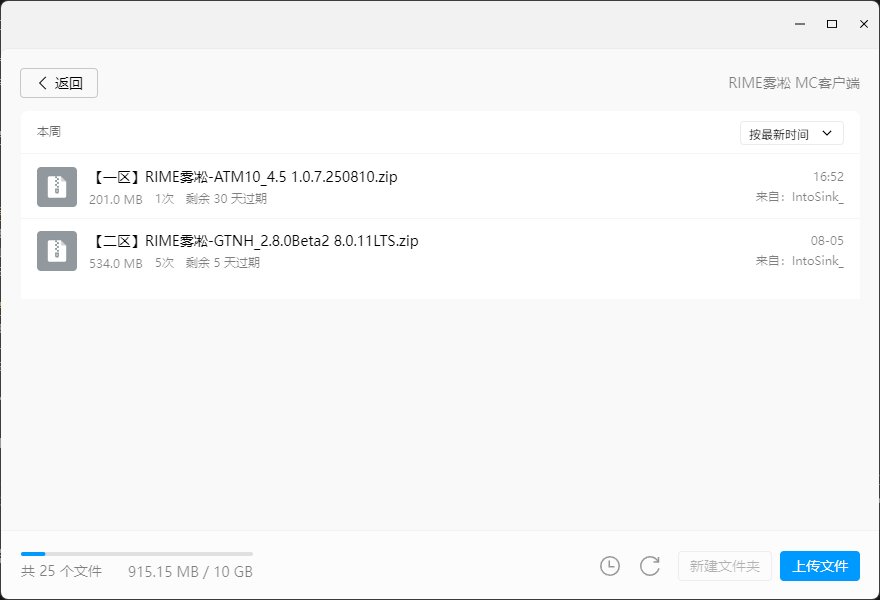
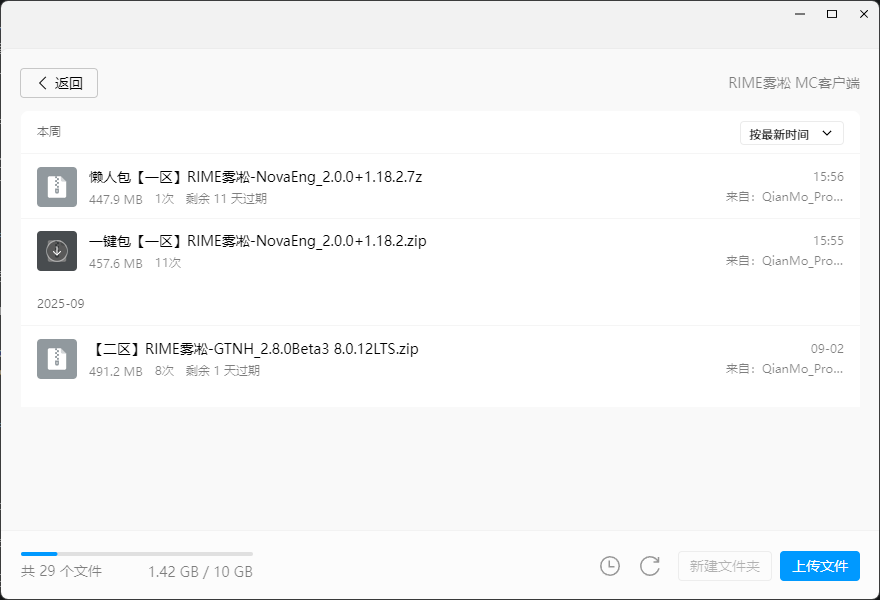
同步新周目新星工程  - 将所有的ATM10关键字替换为新星周目  - 修改安装客户端教程  - 修复英雄界面“快速开始”按钮伪元素没有覆盖全导致按钮两边出现空隙

diff --git a/docs/.vitepress/theme/components/CustomHero.vue b/docs/.vitepress/theme/components/CustomHero.vue
@@ -75,7 +75,7 @@ interface Props {
 const props = withDefaults(defineProps<Props>(), {
   heroData: () => ({
     name: "RIME · 雾凇",
-    text: "ATM10 & GTNH 双区服科技服务器",
+    text: "新星周目 & GTNH 双区服科技服务器",
     tagline: "致力于寻找玩法与稳定的Minecraft服务器",
     image: {
       src: "https://img.cdn1.vip/i/68986baa3322c_1754819498.webp",
@@ -433,6 +433,9 @@ const props = withDefaults(defineProps<Props>(), {
   );
   color: white;
   box-shadow: 0 10px 25px rgba(102, 126, 234, 0.3);
+  position: relative;
+  overflow: hidden;
+  border: none;
 }
 
 .button-brand::before {

diff --git a/docs/.vitepress/theme/components/FeatureCards.vue b/docs/.vitepress/theme/components/FeatureCards.vue
@@ -2,8 +2,8 @@
   <div class="feature-cards-container">
     <div class="feature-cards-grid">
       <ModernCard
-        title="🚀 ATM10 区服"
-        description="体验最新版本的ATM10整合包，涵盖科技、魔法、冒险等多种元素，为玩家提供丰富的游戏内容和挑战"
+        title="🚀 新星周目 区服"
+        description="体验最新版本的新星周目整合包，涵盖科技、魔法、冒险等多种元素，为玩家提供丰富的游戏内容和挑战"
         icon="rocket"
         color="primary"
       />

diff --git a/README.md b/README.md
@@ -6,7 +6,7 @@
 
 RIME · 雾凇是一个专注于科技整合包的 Minecraft 服务器，提供两个特色区服：
 
-- **🚀 ATM10 区服**: 适合新手和追求多样化体验的玩家
+- **🚀 新星周目 区服**: 适合新手和追求多样化体验的玩家
 - **⚙ GTNH 区服**: 适合资深玩家和追求极致挑战的玩家
 
 ## 🔗 相关链接

diff --git a/docs/faq.md b/docs/faq.md
@@ -29,7 +29,7 @@
 
 **A:** 内存分配不当是主要原因：
 
-**ATM10 推荐设置：**
+**新星周目 推荐设置：**
 
 - 最小分配：6GB
 - 推荐分配：8-10GB
@@ -107,7 +107,7 @@
 
 **A:** 建议的学习路径：
 
-**ATM10 新手：**
+**新星周目 新手：**
 
 1. 完成初始任务书引导
 2. 学习基础的科技模组（如 Thermal Series）

diff --git a/docs/index.md b/docs/index.md
@@ -4,7 +4,7 @@ layout: home
 
 hero:
   name: "RIME · 雾凇"
-  text: "ATM10 & GTNH 双区服科技服务器"
+  text: "新星周目 & GTNH 双区服科技服务器"
   tagline: 致力于寻找玩法与稳定的Minecraft服务器
   image:
     src: https://img.cdn1.vip/i/68986baa3322c_1754819498.webp
